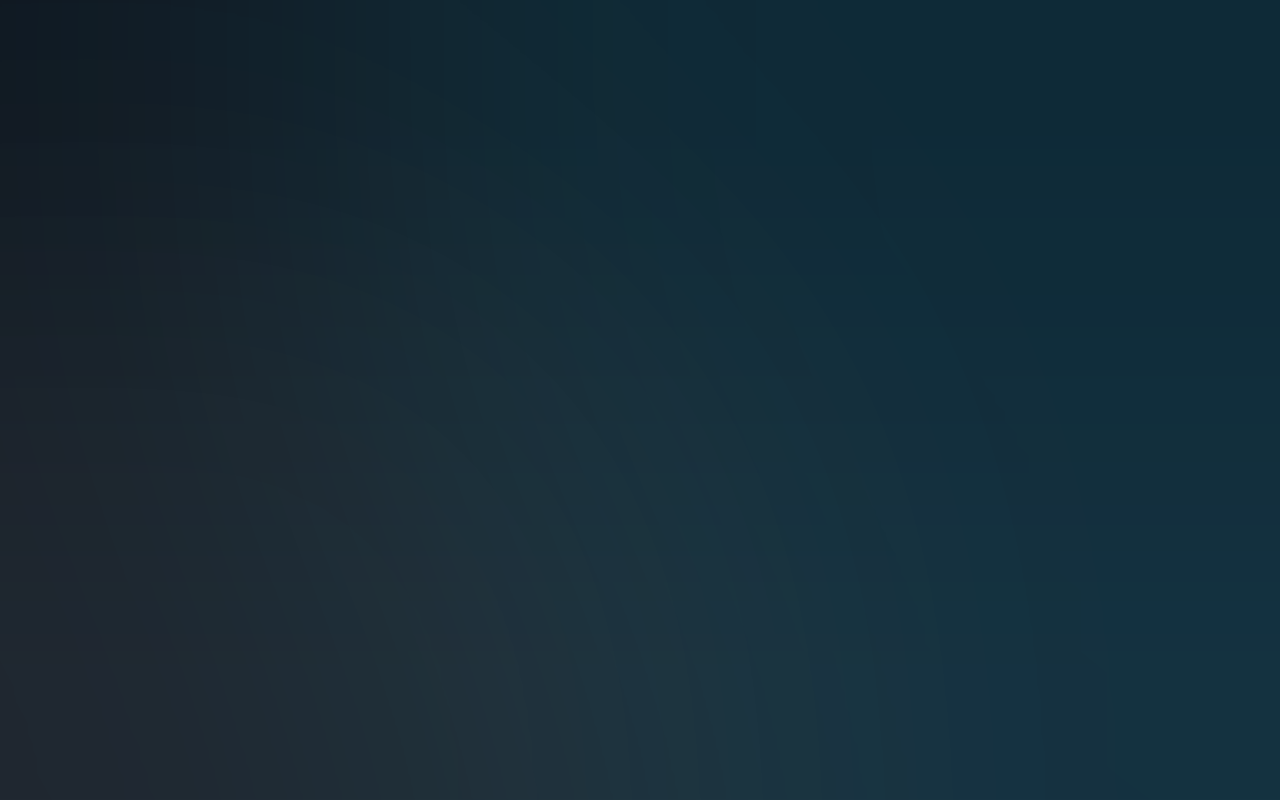
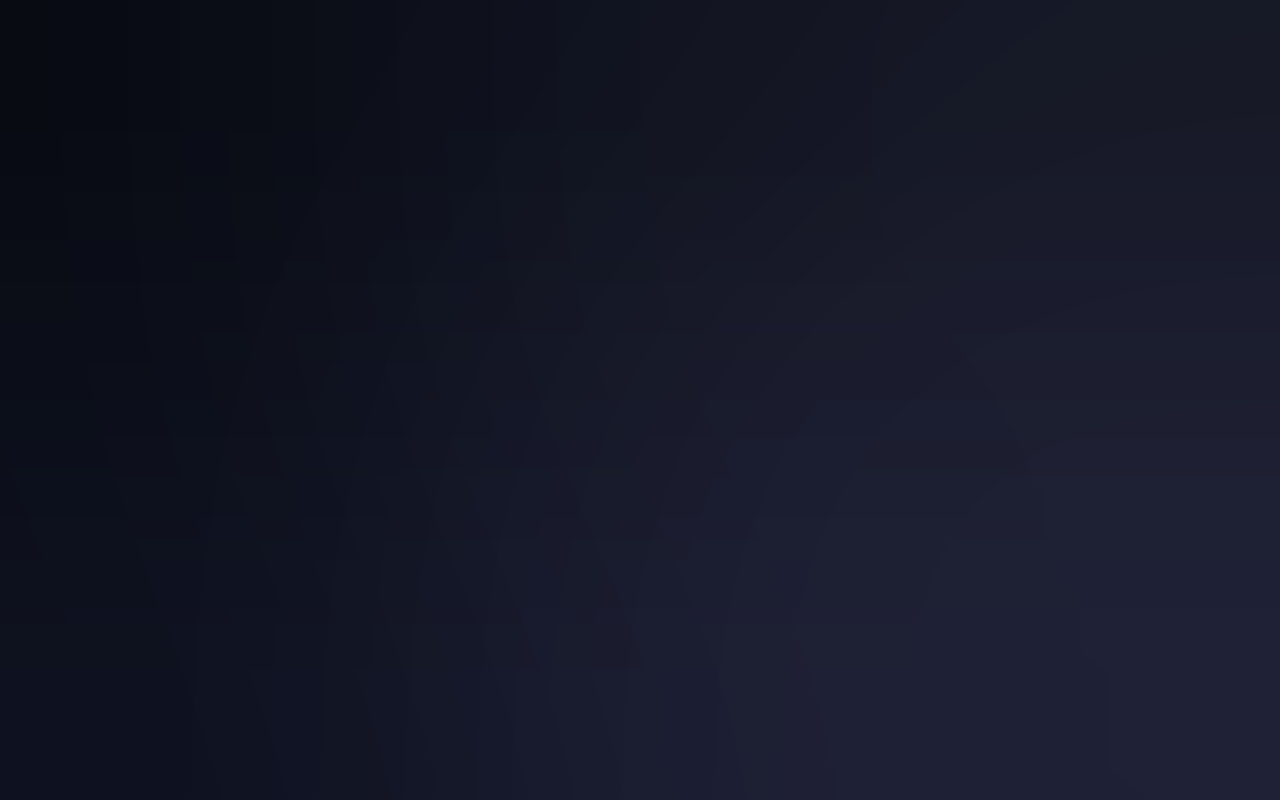
Rediseño Catppuccin Macchiato: lanzadores, tags y barra compacta

diff --git a/README.md b/README.md
@@ -84,13 +84,23 @@ awesome -k
 
 ## 4. Estética
 
-- Tema oscuro Tokyo Night (Storm) en la barra, tags y menús.
-- Barra superior de 34 px con: lanzador, 9 tags de colores, lista de
-  ventanas, bandeja del sistema, volumen, brillo, batería, RAM, disco,
-  wifi, fecha/hora, layout y apagado.
-- Cada tag tiene su propio color (rosa, naranja, amarillo, verde, teal,
-  cian, azul, violeta y gris): seleccionado en color pleno, ocupado en
-  tono tenue y vacío en tono muy tenue.
+- Tema **Catppuccin Macchiato** (`#24273a`) en la barra, tags, menús y
+  notificaciones.
+- Barra superior de 35 px, con esta distribución:
+  - **Izquierda**: lanzadores (Alacritty, Arch, editor, Thunar, Firefox,
+    rofi, Flameshot), separador, 9 tags de colores, iconos de las
+    ventanas abiertas y el prompt de awesome.
+  - **Centro**: vacío, como en la referencia.
+  - **Derecha**: volumen, brillo, batería, RAM, disco, wifi, fecha/hora,
+    bandeja del sistema y layout.
+- Lanzadores: clic izquierdo abre la aplicación; **clic derecho en el
+  logo de Arch** abre el menú de energía (cerrar sesión, reiniciar,
+  apagar).
+- Cada tag tiene su propio color (rojo, melocotón, amarillo, verde,
+  teal, celeste, azul, malva y lavanda): seleccionado en color pleno,
+  ocupado en tono tenue y vacío en tono muy tenue.
+- Los iconos de las ventanas en la barra muestran solo el icono de la
+  aplicación (sin texto), como en la referencia.
 - Interacción con la barra:
   - **Reloj**: clic abre el calendario; rueda cambia de mes.
   - **Volumen**: clic abre `pavucontrol`; rueda sube/baja 5 %; botón
@@ -101,21 +111,21 @@ awesome -k
   - **Disco**: clic muestra el espacio usado en `/` y su porcentaje.
   - **Wifi**: clic abre `nmtui` para gestionar la red.
   - **Layout** (icono de cuadrícula): clic cambia de layout.
-  - **Icono de apagado** (rojo, a la derecha): menú para cerrar sesión,
-    reiniciar o apagar.
 - Los iconos usan `Symbols Nerd Font` (paquete `ttf-nerd-fonts-symbols`),
   que incluye los glifos de Font Awesome. Si ves cuadrados en vez de
   iconos, comprueba con `fc-match "Symbols Nerd Font"`.
-- Bordes de 2 px y gaps de 6 px.
+- Bordes de 2 px, gaps de 8 px y layout inicial `tile.left` (ventana
+  principal a la derecha), igual que en la captura de referencia.
 - Esquinas redondeadas y sombras vía picom (sin blur).
-- Fondo: `awesome/wallpaper.png` (degradado azul oscuro con un brillo
-  teal suave, a juego con la barra). Se instala en
+- Fondo: `awesome/wallpaper.png` (degradado azul oscuro con brillos
+  azul y malva, a juego con la barra). Se instala en
   `~/.config/awesome/wallpaper.png`. Si falta, se usa el fondo de
   `archlinux-wallpaper`.
 - Iconos Papirus y tema GTK `Orchis-Dark`: se aplican solos gracias a
   `~/.config/gtk-3.0/settings.ini`, `~/.config/gtk-4.0/settings.ini`
   y `~/.gtkrc-2.0`. Para cambiarlo a mano, usa `lxappearance`.
-- Fuente Inter; terminal JetBrains Mono Nerd Font.
+- Fuente JetBrains Mono Nerd Font en la barra y en la terminal; la
+  terminal usa fondo azul muy oscuro (`#0d1a25`) con acentos Macchiato.
 
 ## 5. Rendimiento
 
